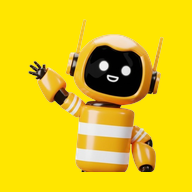
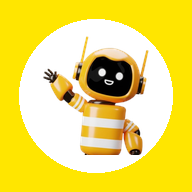
Add files via upload

diff --git a/index.html b/index.html
@@ -516,12 +516,6 @@
 </head>
 <body>
 
-<!-- Splash de abertura: robô no círculo branco + "Meli Daily" -->
-<div id="splash">
-  <div class="splash-circle"><img id="splashImg" alt="Meli Daily"></div>
-  <div class="splash-title">Meli Daily</div>
-</div>
-
 <div class="device" id="device" style="position:relative">
 
   <!-- Login overlay (código OTP por e-mail MELI). Só aparece quando o
@@ -3256,14 +3250,6 @@ if(dateInput) dateInput.addEventListener("change", ()=>{ if(SB.groupMode() && ac
     }catch(e){}
     busy=false;
   });
-})();
-
-/* splash: usa o robô do header e some após ~1.3s */
-(function(){
-  const s=document.getElementById("splash"); if(!s) return;
-  const av=document.querySelector(".header .avatar img"), si=document.getElementById("splashImg");
-  if(av && si) si.src=av.src;
-  setTimeout(()=>{ s.classList.add("hide"); setTimeout(()=>{ if(s.parentNode) s.remove(); },500); }, 1300);
 })();
 
 /* BOOT */
